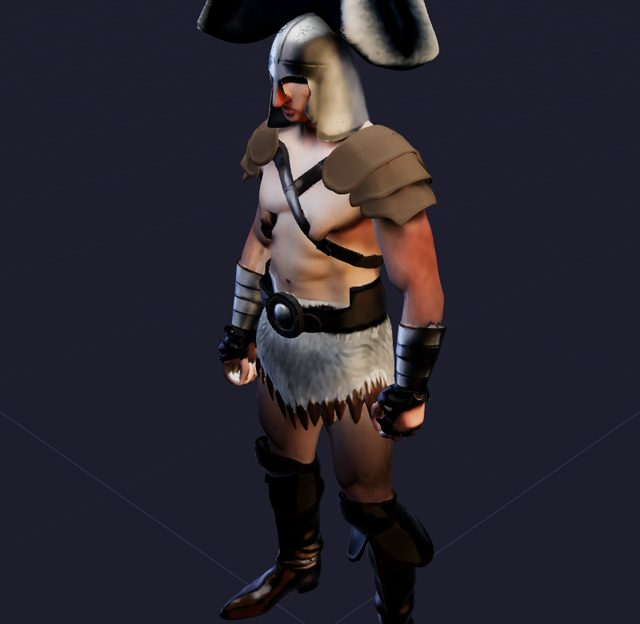
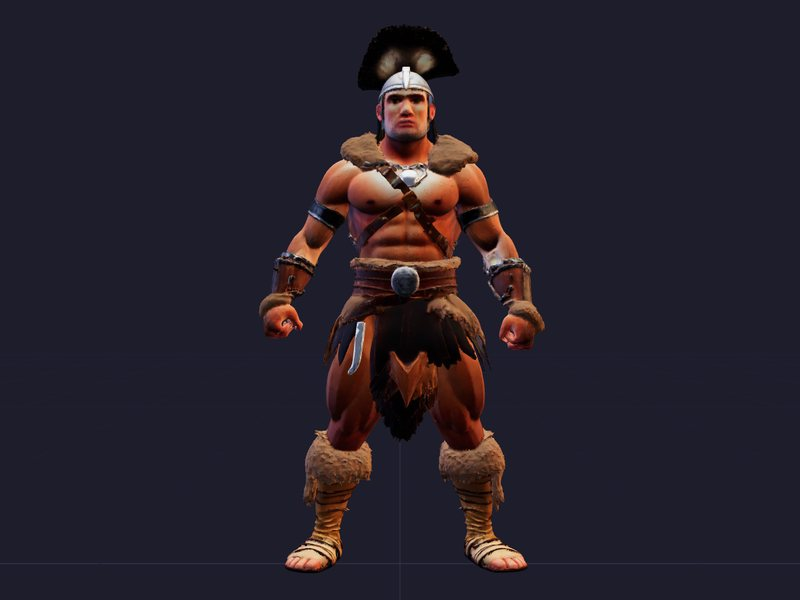
Prix de l'appli Windows reglable dans l'admin et lu par le site ; site vitrine : etapes sur une seule chaine d'images ; plus de nom de moteur dans le fichier exporte (web)

Changed region(s): [[0.3125, 0.0, 0.7188, 1.0]]

diff --git a/cloud/public/admin.html b/cloud/public/admin.html
@@ -1068,6 +1068,18 @@
           <span style="color:var(--text-2); font-size:12px;">Credit cost per operation. Saves take effect within ~60s for every user. "Reset" reverts a single row to its hardcoded default.</span>
           <button class="btn" onclick="loadPricing()">🔄 Reload</button>
         </div>
+        <!-- APPLI WINDOWS : prix affiche par le site vitrine (2026-09-27). -->
+        <div id="pricing-desktop" style="display:flex; flex-wrap:wrap; align-items:center; gap:10px 18px; padding:12px 14px; margin-bottom:14px; border:1px solid var(--border); border-radius:8px; background:var(--bg-2);">
+          <b style="font-size:13px;">Windows app (Microsoft Store)</b>
+          <label style="font-size:12px; color:var(--text-2); display:inline-flex; align-items:center; gap:6px;">
+            Price (€, VAT incl.)
+            <input type="number" id="pricing-desktop-prix" min="0" step="0.01" style="width:90px; padding:4px 8px; background:var(--bg-1); color:var(--text-0); border:1px solid var(--border); border-radius:4px; font-size:13px; text-align:right;" />
+          </label>
+          <label style="font-size:12px; color:var(--text-2); display:inline-flex; align-items:center; gap:6px; cursor:pointer;">
+            <input type="checkbox" id="pricing-desktop-gratuit" /> Free during the beta
+          </label>
+          <span style="font-size:11px; color:var(--text-2);">Shown on the website. The price actually charged is set in Partner Center.</span>
+        </div>
         <table id="pricing-table">
           <thead>
             <tr>
@@ -3528,6 +3540,8 @@
     const PRICING_DESCRIPTIONS = {
       text2image:        'Image generation, per image at 30 steps (scales with the Quality slider: 10 steps = 1/3)',
       watertight_hd:     'Watertight above resolution 256 (up to 256: the simple mesh operation price)',
+      desktop_prix_centimes: 'Windows app price shown on the website, in cents',
+      desktop_gratuit:   'Windows app shown as free during the beta (1) or at its price (0)',
       back_view:         'Back-view generation from front photo',
       modify:            'Modify image (img2img)',
       segment:           'Auto Inpaint live mask detection (CLIPSeg — charged per detection)',
@@ -3595,7 +3609,9 @@
 
     function _renderPricingTable() {
       const tbody = document.querySelector('#pricing-table tbody');
-      const rows = Object.keys(_pricingDefaults).map((k) => {
+      _renderPrixDesktop();
+      // les cles desktop_* ont leur propre bloc (prix en euros, pas en credits)
+      const rows = Object.keys(_pricingDefaults).filter((k) => !k.startsWith('desktop_')).map((k) => {
         const def = _pricingDefaults[k];
         const cur = _pricingCurrent[k];
         const modified = cur !== def;
@@ -3641,6 +3657,21 @@
           }
         });
       });
+    }
+
+    // Bloc « Windows app » : euros <-> centimes, case « gratuit ».
+    function _renderPrixDesktop() {
+      const prix = document.getElementById('pricing-desktop-prix');
+      const gratuit = document.getElementById('pricing-desktop-gratuit');
+      if (!prix || !gratuit) return;
+      const c = Number(_pricingCurrent.desktop_prix_centimes ?? _pricingDefaults.desktop_prix_centimes ?? 8999);
+      prix.value = (c / 100).toFixed(2);
+      gratuit.checked = Number(_pricingCurrent.desktop_gratuit ?? 1) !== 0;
+      prix.oninput = () => {
+        const v = parseFloat(String(prix.value).replace(',', '.'));
+        if (Number.isFinite(v) && v >= 0) _pricingCurrent.desktop_prix_centimes = Math.round(v * 100);
+      };
+      gratuit.onchange = () => { _pricingCurrent.desktop_gratuit = gratuit.checked ? 1 : 0; };
     }
 
     // Password kept in JS memory for the unlocked session — never

diff --git a/docs/index.html b/docs/index.html
@@ -139,7 +139,7 @@
         <a class="btn primaire" href="https://myfabmesh-cloud.fabien65400.workers.dev/">Try it in your browser</a>
         <a class="btn" href="https://apps.microsoft.com/detail/9PH6GT8XKQDW" target="_blank" rel="noopener">Get the Windows app</a>
       </div>
-      <p class="note" style="margin-top:12px">50 free credits on sign-up · Windows app free during the beta</p>
+      <p class="note" style="margin-top:12px">50 free credits on sign-up · <span id="note-desktop">Windows app free during the beta</span></p>
       <figure>
         <img src="screenshots/v2/hero.jpg" width="1280" height="720" alt="A red spider generated as a textured 3D model, shown in the MyFabmesh 3D viewer">
       </figure>
@@ -191,7 +191,7 @@
         <article class="edition">
           <span class="etiquette">Windows app</span>
           <h3>On your own PC</h3>
-          <div class="prix">Free during the beta<small>one-time purchase later, no subscription</small></div>
+          <div class="prix" id="prix-desktop">Free during the beta<small>then €89.99 one-time, no subscription</small></div>
           <ul>
             <li>Runs on your graphics card: unlimited generations</li>
             <li>Works offline once the models are downloaded</li>
@@ -251,5 +251,26 @@
   </div>
 </footer>
 
+<script>
+// Prix de l'appli Windows : regle dans l'admin (Pricing), lu en direct.
+// En cas d'echec, le texte ecrit dans la page reste affiche.
+(function () {
+  fetch('https://myfabmesh-cloud.fabien65400.workers.dev/api/pricing')
+    .then(function (r) { return r.ok ? r.json() : null; })
+    .then(function (d) {
+      var p = d && d.prices; if (!p) return;
+      var prix = (Number(p.desktop_prix_centimes) || 8999) / 100;
+      var txt = prix.toLocaleString('en-IE', { style: 'currency', currency: 'EUR' });
+      var gratuit = Number(p.desktop_gratuit) !== 0;
+      var bloc = document.getElementById('prix-desktop');
+      var note = document.getElementById('note-desktop');
+      if (bloc) bloc.innerHTML = gratuit
+        ? 'Free during the beta<small>then ' + txt + ' one-time, no subscription</small>'
+        : txt + '<small>one-time purchase, no subscription</small>';
+      if (note) note.textContent = gratuit ? 'Windows app free during the beta' : 'Windows app ' + txt + ' one-time';
+    })
+    .catch(function () {});
+})();
+</script>
 </body>
 </html>

diff --git a/docs/check.js b/docs/check.js
@@ -101,25 +101,25 @@
       box.classList.add('verdict-full');
       box.textContent = '✓ Compatible — Full mode unlocked';
       cta.innerHTML =
-        '<a href="index.html#buy-desktop" class="btn-primary">Buy Desktop — 49,99 € TTC</a>' +
-        '<a href="index.html#cloud-soon" class="btn-ghost">Or try Cloud</a>';
+        '<a href="https://apps.microsoft.com/detail/9PH6GT8XKQDW" target="_blank" rel="noopener" class="btn-primary prix-desktop-cta">Get the Windows app</a>' +
+        '<a href="https://myfabmesh-cloud.fabien65400.workers.dev/" class="btn-ghost">Or use the web app</a>';
     } else if (v === 'standard') {
       box.classList.add('verdict-std');
       box.textContent = '✓ Compatible — Standard mode';
       cta.innerHTML =
-        '<a href="index.html#buy-desktop" class="btn-primary">Buy Desktop — 49,99 € TTC</a>' +
-        '<a href="index.html#cloud-soon" class="btn-ghost">Or try Cloud</a>';
+        '<a href="https://apps.microsoft.com/detail/9PH6GT8XKQDW" target="_blank" rel="noopener" class="btn-primary prix-desktop-cta">Get the Windows app</a>' +
+        '<a href="https://myfabmesh-cloud.fabien65400.workers.dev/" class="btn-ghost">Or use the web app</a>';
     } else if (v === 'unknown') {
       box.classList.add('verdict-std');
       box.textContent = '? GPU model not in our database';
       cta.innerHTML =
-        '<a href="index.html#buy-desktop" class="btn-ghost">Buy Desktop (at your own risk)</a>' +
-        '<a href="index.html#cloud-soon" class="btn-primary">Try Cloud first (safer)</a>';
+        '<a href="https://apps.microsoft.com/detail/9PH6GT8XKQDW" target="_blank" rel="noopener" class="btn-ghost">Get the Windows app (at your own risk)</a>' +
+        '<a href="https://myfabmesh-cloud.fabien65400.workers.dev/" class="btn-primary">Try the web app first (safer)</a>';
     } else {
       box.classList.add('verdict-cloud');
       box.textContent = '✗ Not compatible for Desktop — use Cloud';
       cta.innerHTML =
-        '<a href="index.html#cloud-soon" class="btn-primary">Open Cloud — works on your machine</a>';
+        '<a href="https://myfabmesh-cloud.fabien65400.workers.dev/" class="btn-primary">Open the web app — works on your machine</a>';
     }
   }
 

diff --git a/cloud/public/app/index2.js b/cloud/public/app/index2.js
@@ -16769,7 +16769,8 @@ document.getElementById('ws-mesh-export-btn')?.addEventListener('click', () => {
   const m = getCurrentMeshObj();
   if (!m) { showToast('Pick a mesh first.', 'error'); return; }
   const modal = document.getElementById('modal-export-mesh');
-  const baseName = m.filename.replace(/\.[^.]+$/, '');
+  // nom sans moteur (secret technique : le fichier portait « _trellis2_ »)
+  const baseName = _maskAiNames(m.filename.replace(/\.[^.]+$/, ''));
   // Output path defaults to the OS Downloads folder. On cloud the
   // browser writes there by default for any <a download>; on
   // desktop the IPC handler resolves "Downloads/" via app.getPath.
@@ -16784,7 +16785,7 @@ document.getElementById('exp-browse')?.addEventListener('click', async () => {
   const m = getCurrentMeshObj();
   if (!m) return;
   const format = document.getElementById('exp-format').value;
-  const defaultName = m.filename.replace(/\.[^.]+$/, '');
+  const defaultName = _maskAiNames(m.filename.replace(/\.[^.]+$/, ''));
   if (!API.pickExportPath) return;
   const picked = await API.pickExportPath({ defaultName, format });
   // Desktop returns a plain string ("C:\Users\…"), cloud returns an

diff --git a/cloud/src/worker.ts b/cloud/src/worker.ts
@@ -1636,6 +1636,13 @@ function _invalidateServiceFlagsCache() {
  * ATTENTION : `_meta/pricing.json` dans R2 PRIME sur ces valeurs. Elles ne
  * servent que de repli — mais un repli qui vendait a perte etait un piege. */
 const PRICING_DEFAULTS = {
+  // APPLI WINDOWS (2026-09-27, user : « une partie dans admin / pricing pour
+  // definir le prix de desktop »). Ce n'est PAS un tarif en credits : c'est le
+  // prix AFFICHE par le site vitrine (docs/, via GET /api/pricing). Le prix
+  // reellement facture se regle dans Partner Center (Microsoft Store).
+  // Centimes, parce que la grille ne stocke que des entiers.
+  desktop_prix_centimes: 8999,
+  desktop_gratuit:       1,          // 1 = « gratuit pendant la beta » affiche
   // Image ops
   text2image:       3,
   back_view:        3,
@@ -18014,6 +18021,8 @@ async function handlePublicPricing(_req: Request, env: Env): Promise<Response> {
     headers: {
       'content-type': 'application/json',
       'cache-control': 'public, max-age=30',
+      // lu aussi par le site vitrine (GitHub Pages) : donnees publiques
+      'access-control-allow-origin': '*',
     },
   });
 }

diff --git a/cloud/public/app/meshyAPI-cloud.js b/cloud/public/app/meshyAPI-cloud.js
@@ -1939,7 +1939,10 @@
         }
         const blob = main.blob;
         const ext = main.ext;
-        const baseName = _stripExt(_basename(outputPath || sourcePath || 'mesh'));
+        // nom du fichier telecharge sans nom de moteur (secret technique) :
+        // le maillage stocke s'appelle « <projet>_trellis2_<id>.glb »
+        const baseName = _stripExt(_basename(outputPath || sourcePath || 'mesh'))
+          .replace(/_(trellis2_native|trellis2|trellis|native_3d|sf3d|hunyuan|puppeteer|unirig)(?=_|$)/gi, '');
 
         // ETAPES DE CONSTRUCTION : meme resultat que le desktop, traduit pour un
         // navigateur — qui ne peut pas creer de dossier sur le disque. On livre

diff --git a/docs/terms.html b/docs/terms.html
@@ -96,7 +96,7 @@
     <li>The App is <strong>free of charge</strong>.</li>
     <li>Features may change without notice.</li>
     <li>Bugs are expected and we appreciate your reports at <a href="https://github.com/fabienlacaze/MyFabmesh/issues">GitHub Issues</a>.</li>
-    <li>After the beta, paid versions (currently planned at 49,99 € TTC) may be introduced; users who installed during the beta will be notified before any change.</li>
+    <li>After the beta, a paid one-time version may be introduced at the price shown on this website; users who installed during the beta will be notified before any change.</li>
   </ul>
 
   <h2>5. Disclaimer — no warranty</h2>

diff --git a/AGENT_LOG.md b/AGENT_LOG.md
@@ -23851,3 +23851,17 @@ Reste au user : soumission manuelle dans Partner Center (API Azure AD morte).
 - La case « Construction stages (3 versions) » de la creation 3D restait visible (et
   facturable) pour un personnage : masquee hors building / other_built / environment.
 - Constat : les animations existantes du guerrier sortent deformees (maillage « explose »).
+
+## 2026-09-27 — Prix de l'appli Windows dans l'admin ; site vitrine ; nom de moteur dans l'export
+
+- Admin > Pricing : bloc « Windows app » (prix en euros TTC + case « Free during the beta »),
+  stocke en `desktop_prix_centimes` (8999) et `desktop_gratuit` (1) — la grille n'a que des
+  entiers. Prix AFFICHE seulement : le prix facture se regle dans Partner Center.
+- /api/pricing : `access-control-allow-origin: *` (lu par le site GitHub Pages).
+- Site (docs/, branche de travail, PAS encore publie sur master) : page refaite ; le prix
+  du bureau vient de l'admin ; images des etapes = une seule chaine (image -> maillage
+  modal_6dbd5bbf -> son rig -> export) ; check.js et terms.html sans le vieux 49,99 €.
+- Export web : le nom du fichier portait le nom du moteur (« _trellis2_ ») — masque dans la
+  fenetre et dans le fichier telecharge. Le bureau le nettoyait deja (_cleanExportBase).
+- A trancher par le user : la fenetre d'export propose par defaut « Personal use only —
+  NOT SELLABLE BY USERS », en contradiction avec la FAQ du site (usage commercial).
